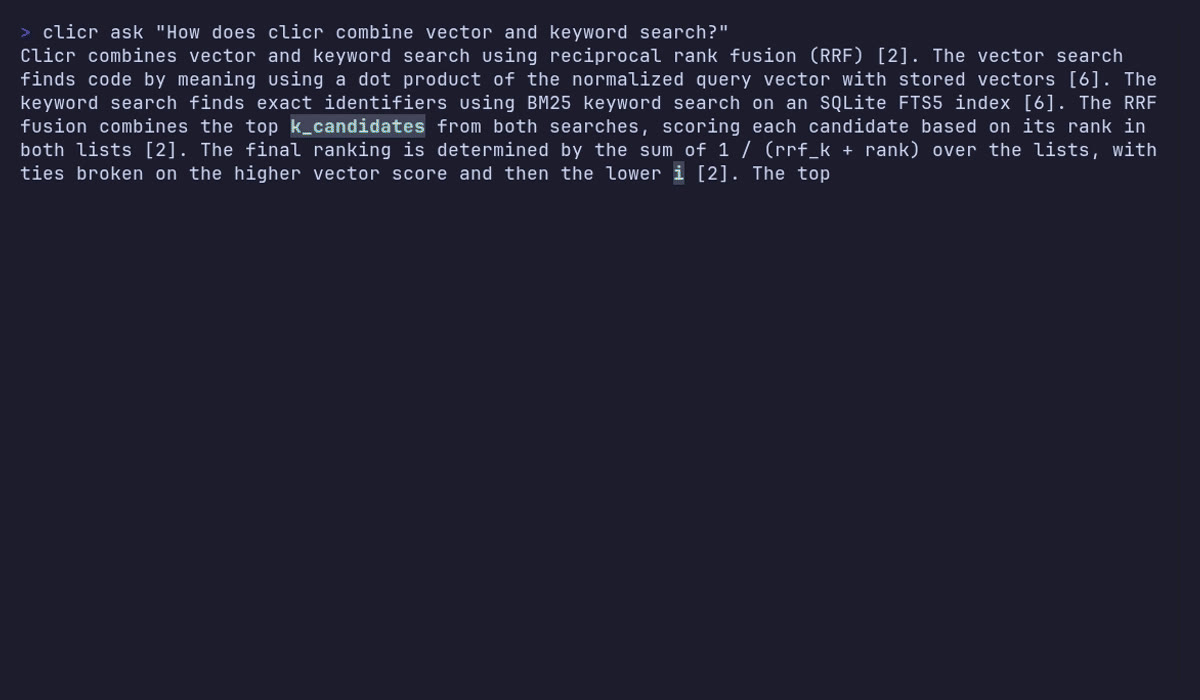
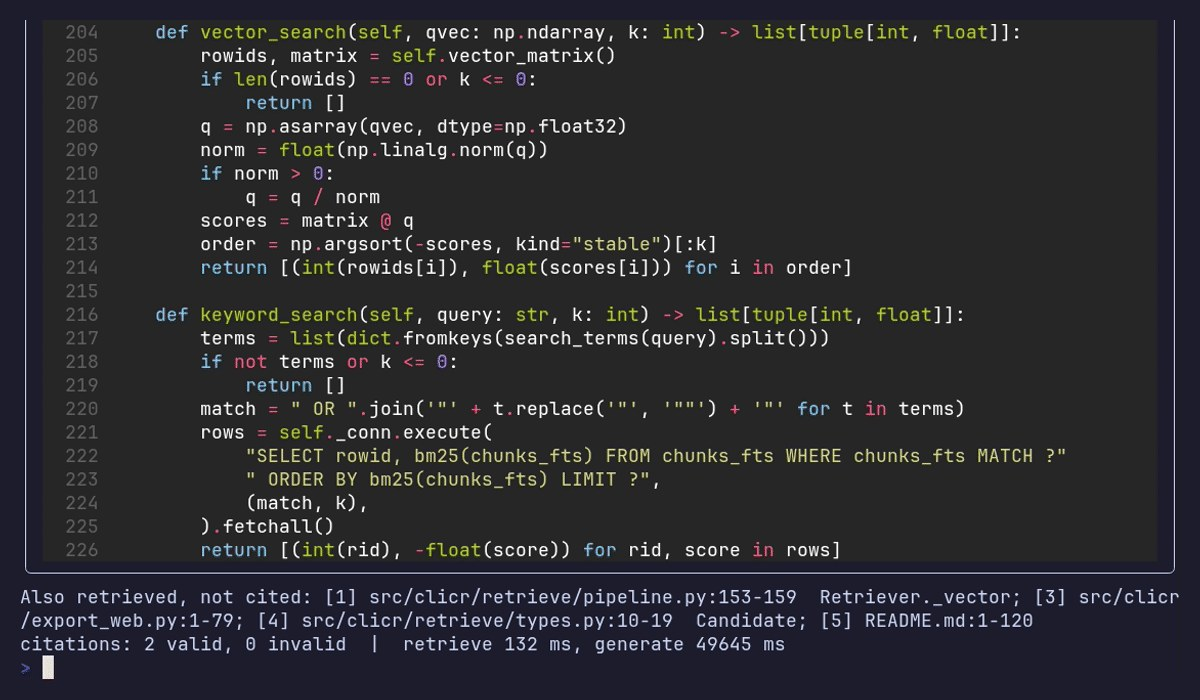
[UPDATE] - CliCR card: dark terminal thumbnail and a full-frame video poster

diff --git a/src/people/johnny/content/projects/clicr.md b/src/people/johnny/content/projects/clicr.md
@@ -10,5 +10,5 @@ repo: "https://github.com/jagdteam/clicr"
 explore: { href: "/projects/clicr/demo/", label: "Try it in your browser" }
 media: [{ src: "/projects/clicr/demo.mp4", poster: "/projects/clicr/demo-poster.jpg", alt: "Terminal recording: clicr indexes its own repository, answers a question with cited code panels, then shows the ranking table from --explain.", kind: "video" }, { src: "/projects/clicr/diagram.png", alt: "Architecture diagram: an indexing lane (walk files, tree-sitter chunks, embed, SQLite store with FTS5 keyword index, vectors and call graph) and an asking lane (vector and BM25 search, reciprocal rank fusion, optional rerank, graph expansion, context packing, cited answer).", kind: "image" }]
 thumb: "/projects/clicr/thumb.webp"
-thumbFit: "contain"
+thumbFit: "cover"
 ---
